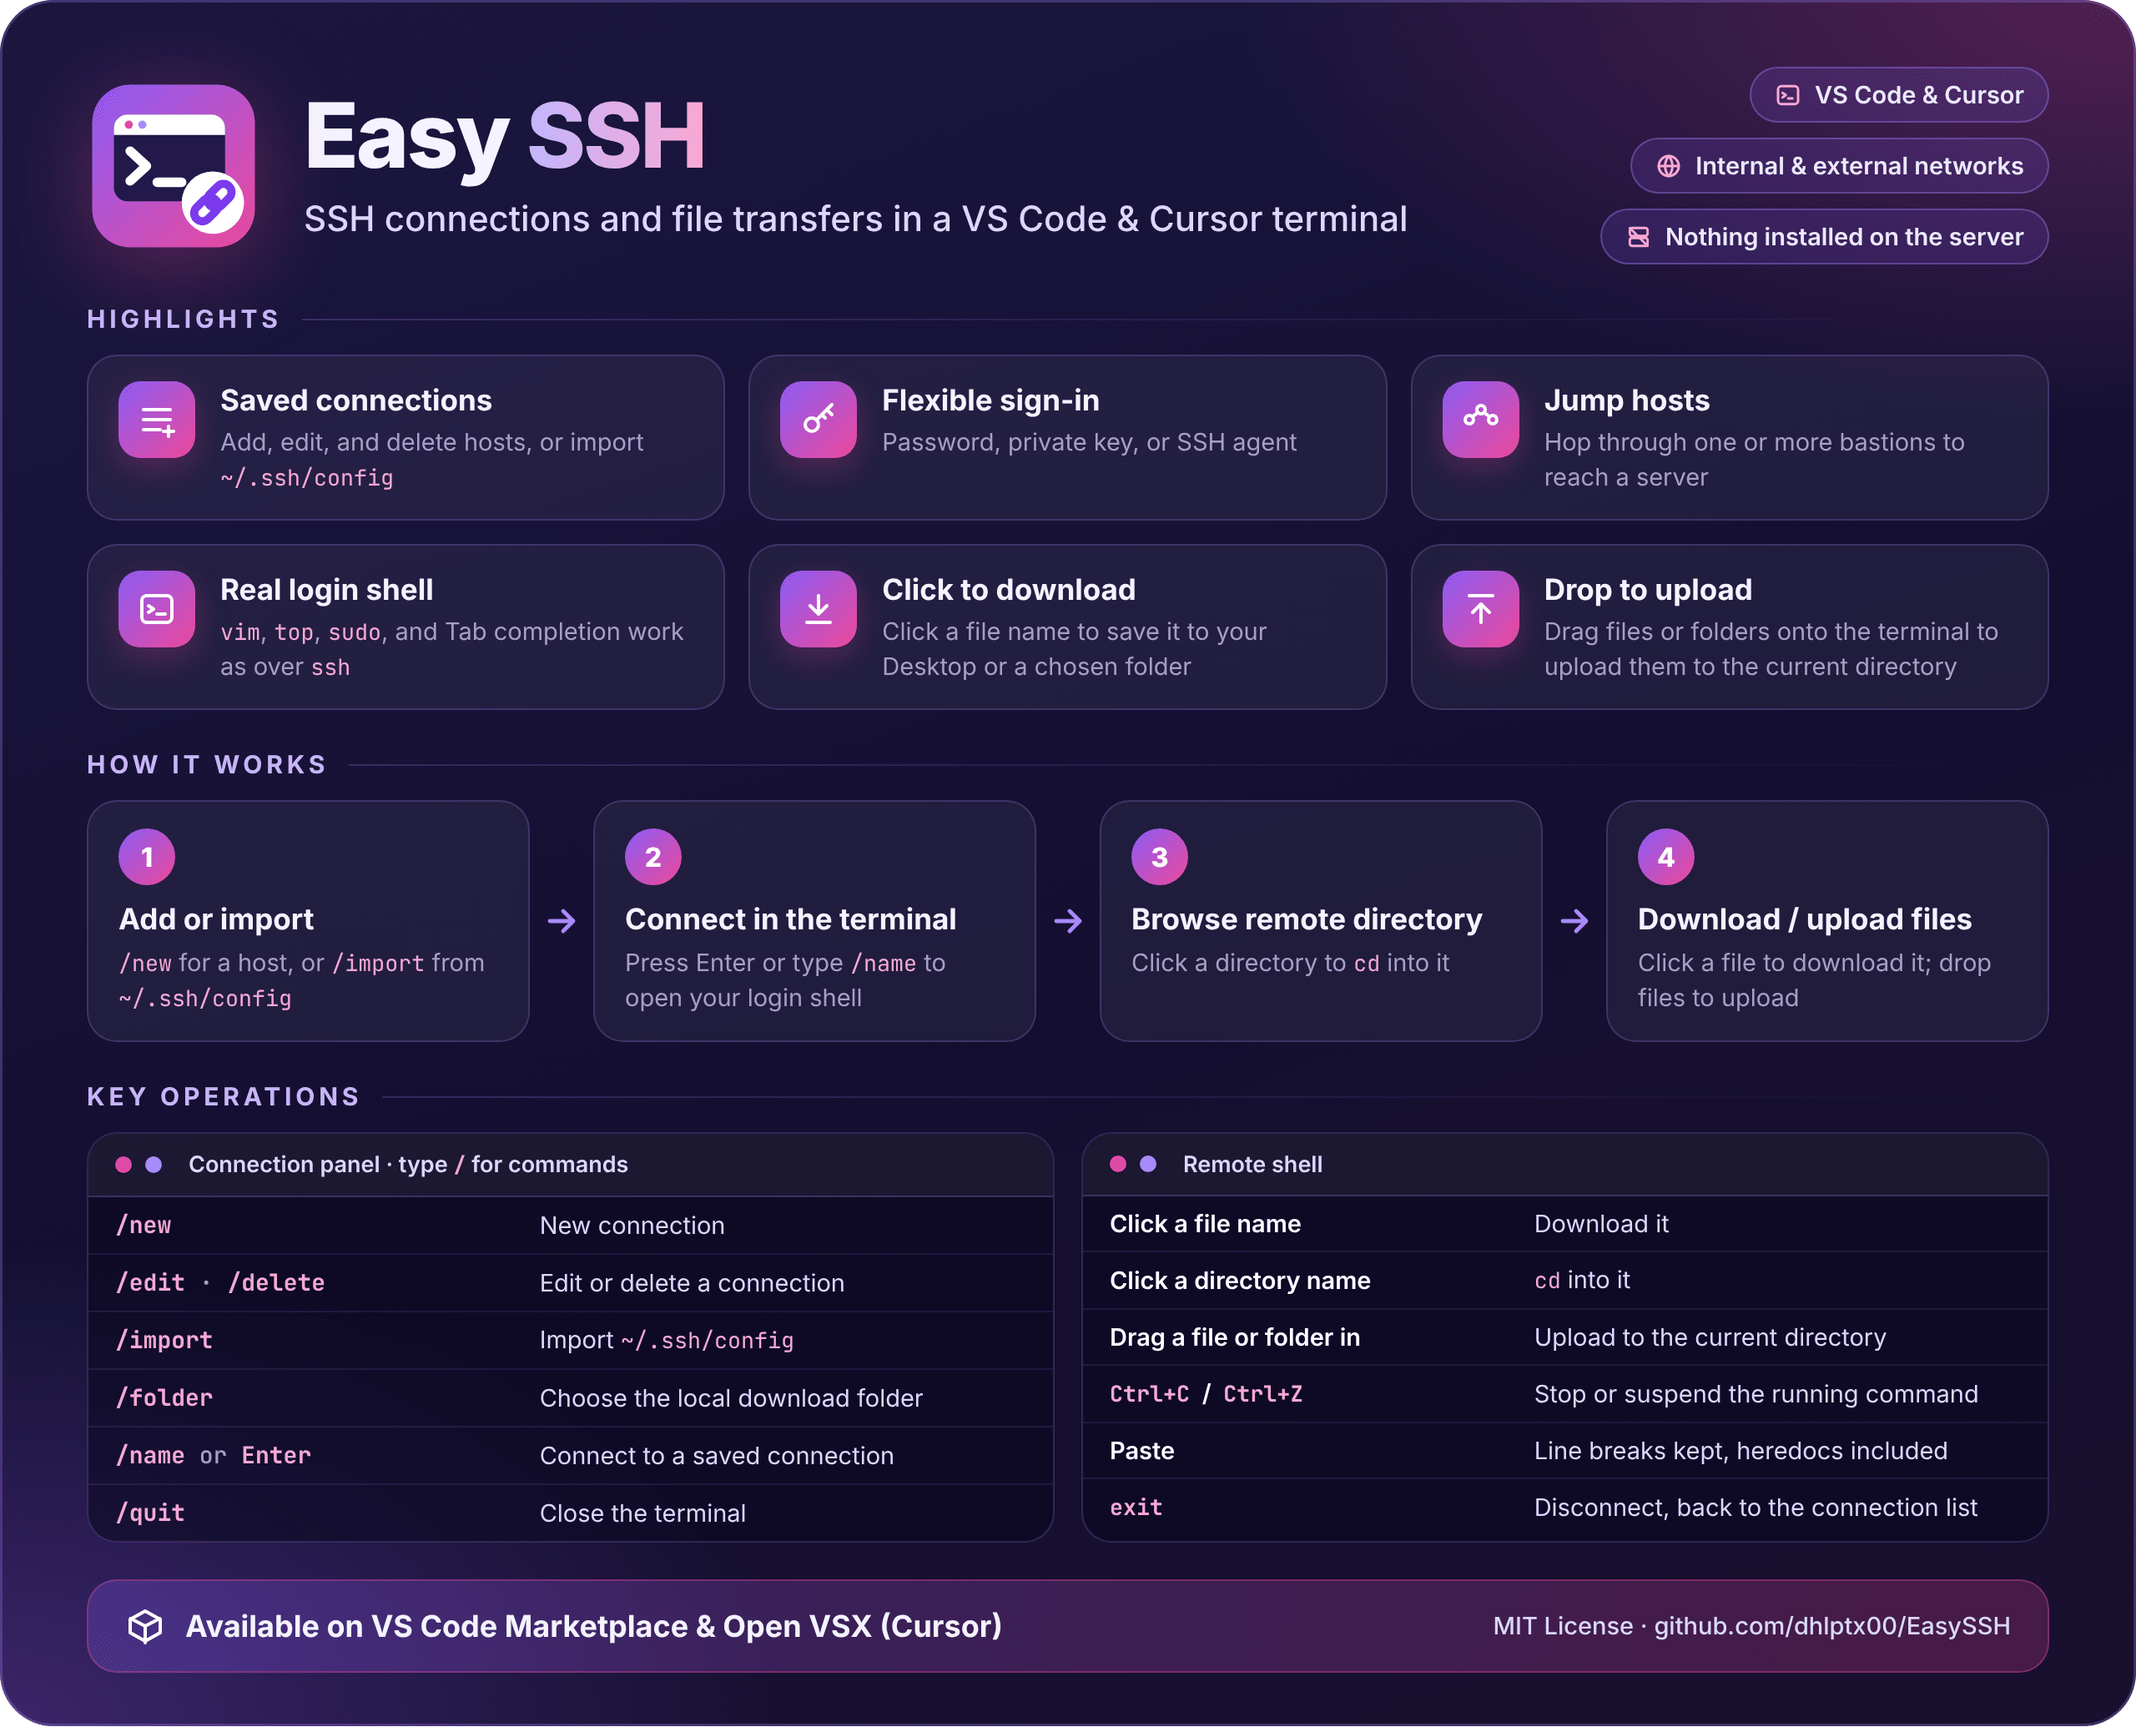
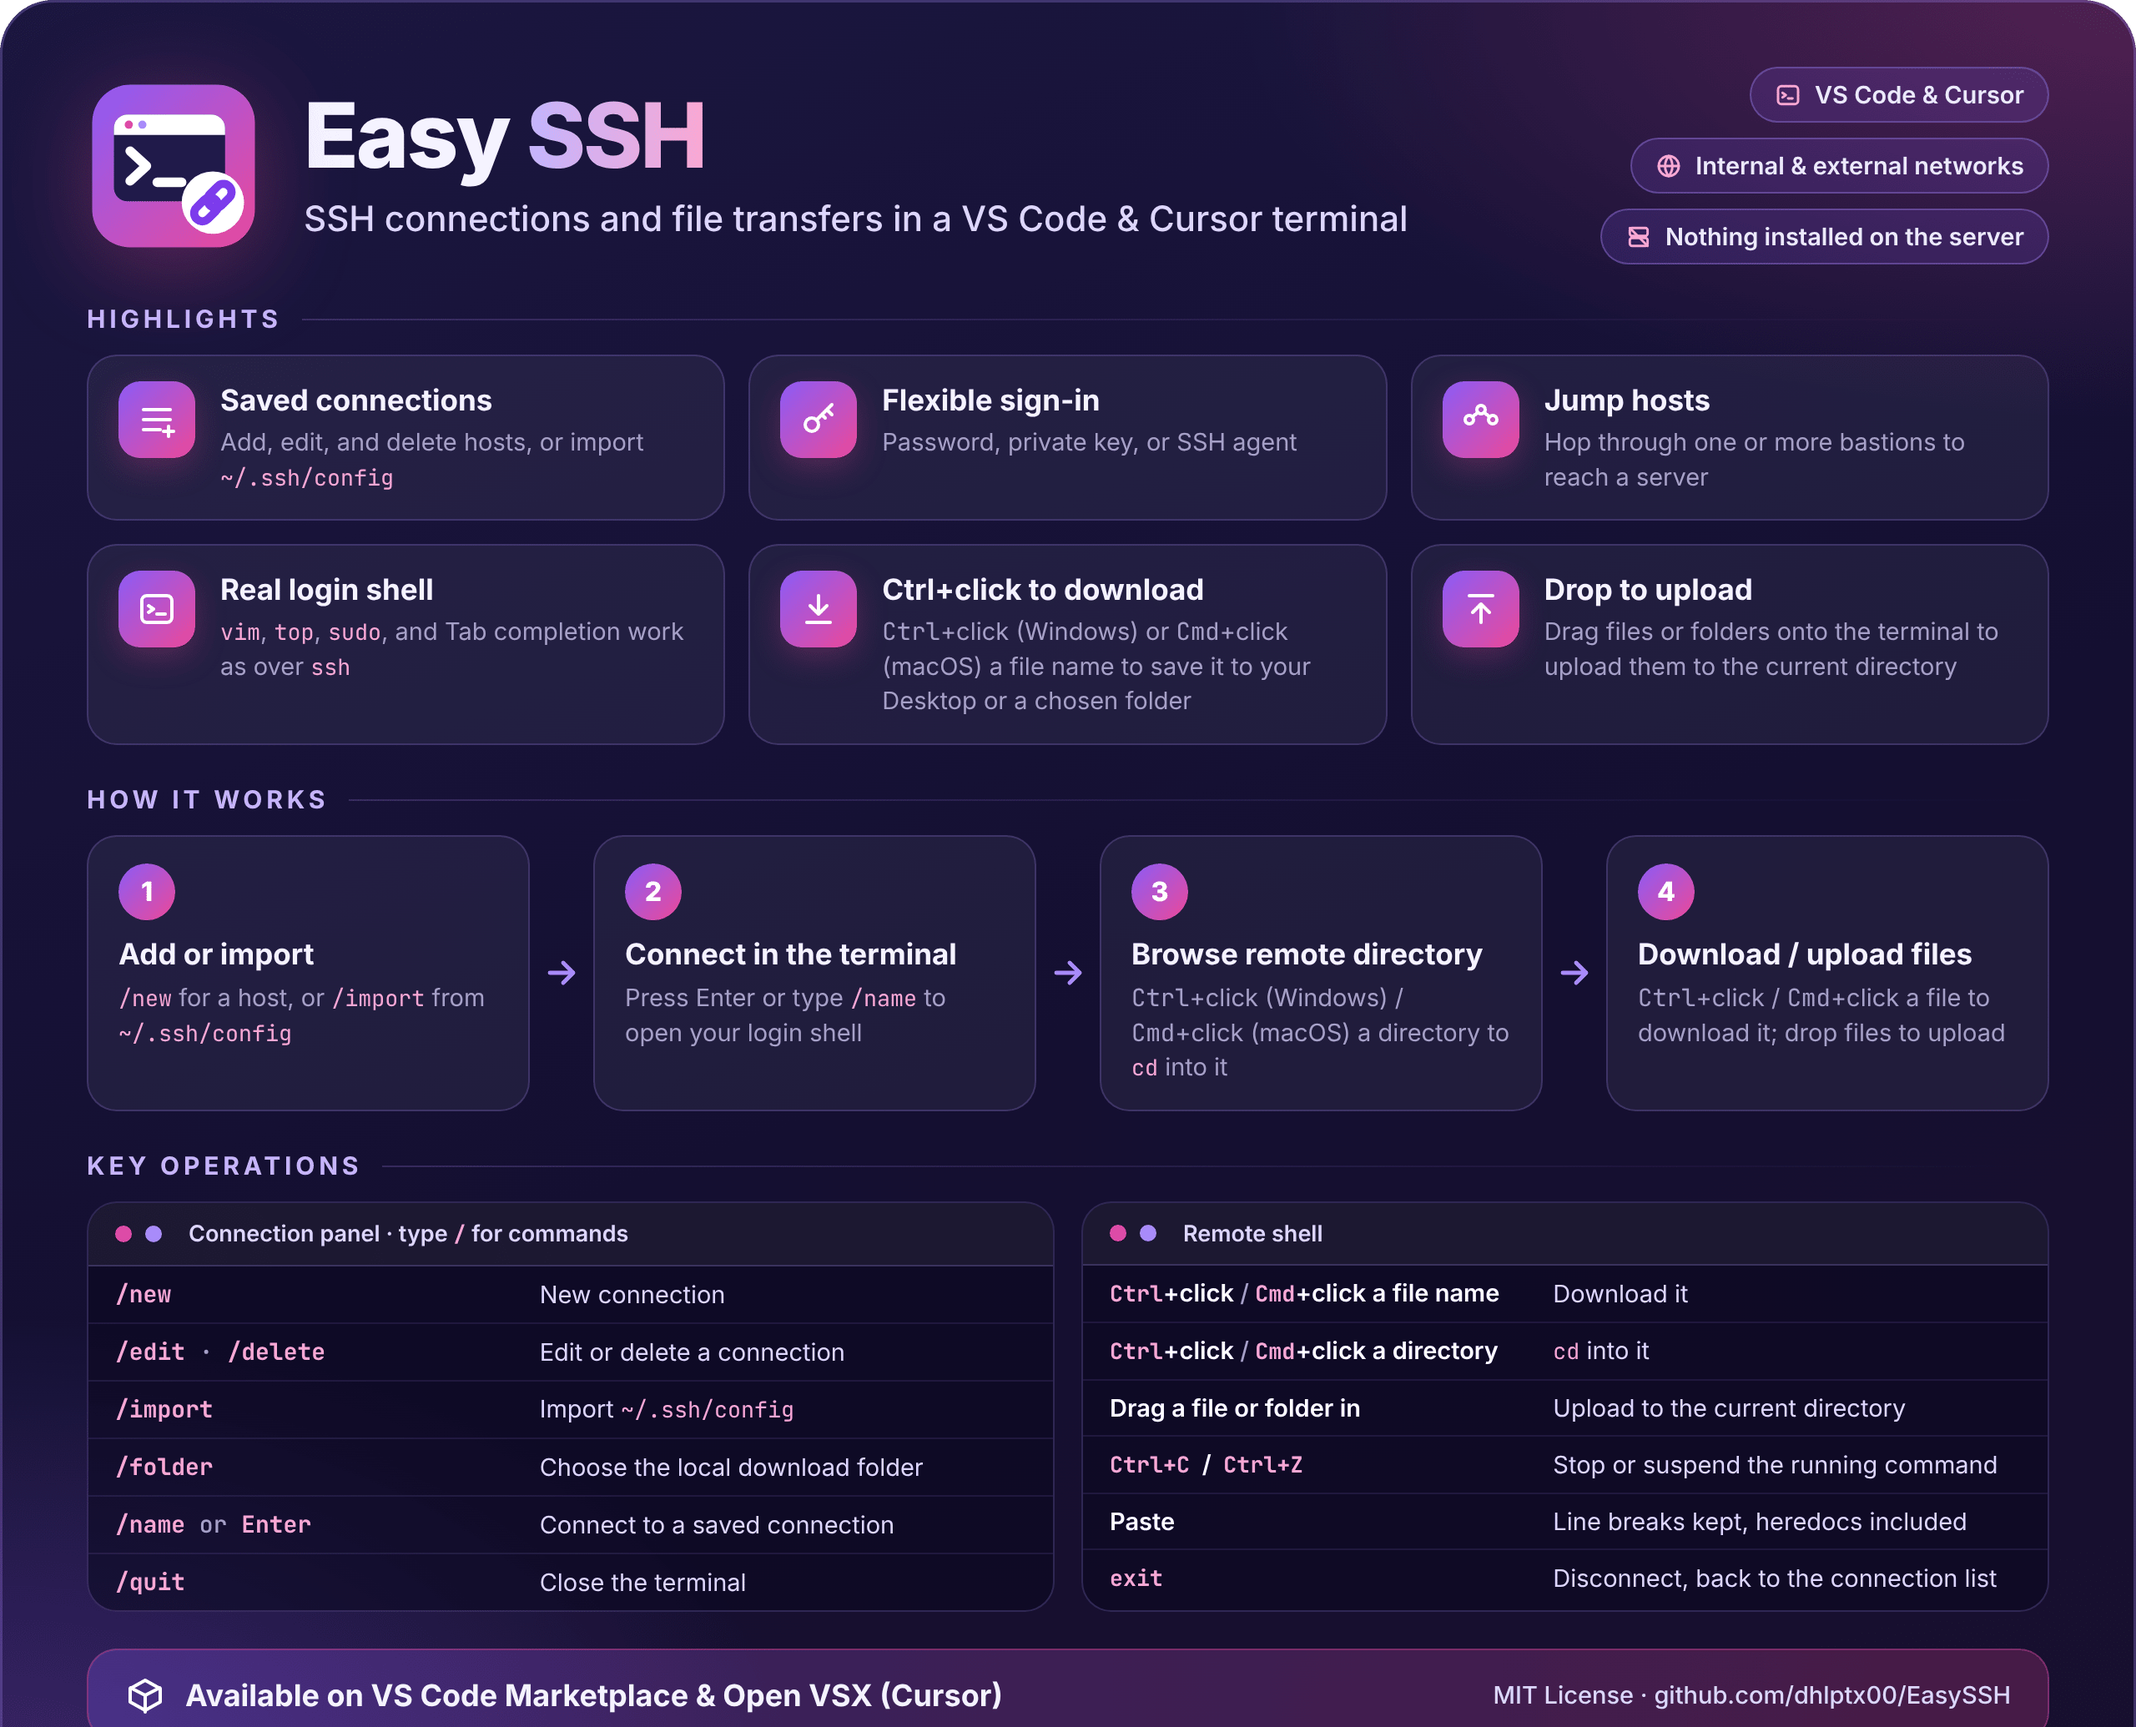
0.1.3: explicit Ctrl/Cmd+click docs, refreshed screenshots and infographic, header shows real version
- README: Ctrl+click on Windows/Linux, Cmd+click on macOS for download and cd;
  updated alt text and captions.
- Infographic: Ctrl+click (Windows) / Cmd+click (macOS) in highlights, steps,
  and the remote shell table.
- Re-captured 01, 02, 07, 08, 09, 12 and the demo GIF with 0.1.3.
- The connection panel header read a hard-coded 0.1.0; it now comes from
  package.json.

diff --git a/src/terminal/render.test.ts b/src/terminal/render.test.ts
@@ -4,6 +4,8 @@ import type { BrowseEntry } from '../types';
 import { nameSpans, render } from './render';
 import { emptyDraft } from './wizard';
 
+const packageVersion: string = (require('../../package.json') as { version: string }).version;
+
 const view = {
   cols: 80,
   rows: 24,
@@ -28,7 +30,7 @@ describe('terminal screen', () => {
     assert.match(text, /Connections/);
     assert.match(text, /Commands/);
     assert.match(text, /Easy SSH/);
-    assert.match(text, /0\.1\.0/);
+    assert.ok(text.includes(`Easy SSH  ${packageVersion}`), 'header shows the package.json version');
     assert.match(text, /╭/);
     assert.ok(frame.cursor);
     assert.match(frame.lines[frame.cursor.row].plain, /> /);

diff --git a/src/terminal/render.ts b/src/terminal/render.ts
@@ -49,7 +49,8 @@ const FG: Record<Tone, string> = {
   border: '64;64;64',
 };
 
-const VERSION = '0.1.0';
+// Read from package.json at build time (esbuild inlines it), so the header never goes stale.
+const VERSION: string = (require('../../package.json') as { version: string }).version;
 const PROMPT_BLOCK = 3;
 const FRAME_GAP = 1;
 

diff --git a/README.md b/README.md
@@ -2,15 +2,15 @@
 
 [![Buy me a coffee](https://img.shields.io/badge/Buy%20me%20a%20coffee-FFDD00?logo=buymeacoffee&logoColor=black)](https://buymeacoffee.com/dhlptx00)
 
-![Easy SSH overview: saved connections, sign-in options, jump hosts, a real login shell, click to download, and drop to upload](media/readme/infographic.png)
+![Easy SSH overview: saved connections, sign-in options, jump hosts, a real login shell, Ctrl+click or Cmd+click to download, and drop to upload](media/readme/infographic.png)
 
 A terminal for SSH connections inside VS Code and Cursor.
 
 Easy SSH talks SSH directly from your computer. It does not install anything on the server, and it does not download a remote editor when you connect. The same terminal works on an internal network and on the public internet.
 
-![Demo: pick a connection, open the remote shell, click a directory to cd into it, and click a file to download it](media/readme/connect-and-download.gif)
+![Demo: pick a connection, open the remote shell, Ctrl+click a directory to cd into it, and Ctrl+click a file to download it](media/readme/connect-and-download.gif)
 
-*Quick demo: connect, Ctrl+click (Cmd+click on macOS) a directory to `cd` into it, Ctrl+click a file to download it.*
+*Quick demo: connect, Ctrl+click a directory to `cd` into it, then Ctrl+click a file to download it. On macOS, use Cmd+click.*
 
 ## What you can do
 
@@ -20,7 +20,8 @@ Easy SSH talks SSH directly from your computer. It does not install anything on 
 - Import hosts from `~/.ssh/config`
 - Open a remote Linux shell in your home directory
 - Run commands, full-screen programs, and `sudo` the same way you would over `ssh`
-- Ctrl+click (Cmd+click on macOS) a file name to download it to your Desktop
+- Download a file to your Desktop: Ctrl+click its name on Windows and Linux, Cmd+click on macOS
+- `cd` into a directory the same way: Ctrl+click on Windows and Linux, Cmd+click on macOS
 - Select and copy terminal text with the mouse, as in any VS Code terminal
 - Drag a file or folder onto the terminal to upload it into the current directory
 - Open another session from the activity-bar icon or **Easy SSH: New Terminal**
@@ -67,21 +68,21 @@ A connection opens your login shell in the home directory, the same kind of shel
 
 *A remote login shell, the same as over `ssh`.*
 
-Ctrl+click (Cmd+click on macOS) a file name to download it to the Desktop. Ctrl+click a directory name to `cd` into it. Hovering a name underlines it and shows what a click does. Drag a file or folder onto the terminal to upload it into the current directory. Progress for those transfers is shown in the status bar. `exit` closes the shell and returns to the connection list.
+To download a file to the Desktop, Ctrl+click its name on Windows and Linux, or Cmd+click it on macOS. To `cd` into a directory, Ctrl+click its name on Windows and Linux, or Cmd+click it on macOS. Hovering a name underlines it and shows what a click does. Drag a file or folder onto the terminal to upload it into the current directory. Progress for those transfers is shown in the status bar. `exit` closes the shell and returns to the connection list.
 
-![Clicking a directory name runs cd into it](media/readme/08-click-directory-to-cd.png)
+![Hovering a directory name shows "cd logs (ctrl + click)"; Ctrl+click runs cd into it](media/readme/08-click-directory-to-cd.png)
 
-*Ctrl+click a directory name to `cd` into it.*
+*Ctrl+click a directory name (Cmd+click on macOS) to `cd` into it.*
 
 Each click of the activity-bar icon opens another terminal, and so does **Easy SSH: New Terminal**. Each one connects on its own. The first terminal is named Easy SSH, and the next are Easy SSH 2, Easy SSH 3, and so on.
 
-Drag with the mouse to select text, then copy it as usual. If you set `editor.multiCursorModifier` to `ctrlCmd`, links open with Alt+click instead, the same as for other VS Code terminal links. To open names with a plain click, turn on **Easy SSH: Plain Click** (`easySsh.plainClick`). In that mode, hold Shift while dragging to select text. On macOS, turn on `terminal.integrated.macOptionClickForcesSelection` and hold Option instead.
+Drag with the mouse to select text, then copy it as usual. If you set `editor.multiCursorModifier` to `ctrlCmd`, links open with Alt+click instead, the same as for other VS Code terminal links. To open names with a plain click instead, turn on **Easy SSH: Plain Click** (`easySsh.plainClick`). In that mode, hold Shift while dragging to select text. On macOS, turn on `terminal.integrated.macOptionClickForcesSelection` and hold Option instead.
 
 | Action | Result |
 | --- | --- |
 | Type, arrows, Tab, Ctrl+R, Ctrl+L | The remote shell handles the keys. Tab finishes a path such as `cd /tm` |
-| Ctrl+click (Cmd+click) a file name | Download it to the Desktop |
-| Ctrl+click (Cmd+click) a directory name | `cd` into it |
+| Ctrl+click a file name (Cmd+click on macOS) | Download it to the Desktop |
+| Ctrl+click a directory name (Cmd+click on macOS) | `cd` into it |
 | Drag with the mouse | Select text |
 | Drag a file or folder here | Upload it into the current directory |
 | Ctrl+C | Stop the running command |
@@ -95,9 +96,9 @@ Passwords and key passphrases are hidden while you type. Press Enter on a saved 
 
 Downloaded files go to your Desktop. On Windows this is the Desktop folder Windows actually uses, including a Desktop redirected to OneDrive or to another drive. The folder in use is written to **Output → Easy SSH** when the extension starts. Type `/folder` on the connection panel, or run **Easy SSH: Set Download Folder**, to choose another folder. If the file name already exists, Easy SSH adds a number, such as `notes (1).txt`.
 
-![Clicking a file name downloads it to the Desktop](media/readme/09-click-file-to-download.png)
+![Hovering a file name shows "Download access.log to the Desktop (ctrl + click)"; the status bar shows where the file was saved](media/readme/09-click-file-to-download.png)
 
-*Ctrl+click a file name to download it. The status bar shows where it was saved.*
+*Ctrl+click a file name (Cmd+click on macOS) to download it. The status bar shows where it was saved.*
 
 To upload, drag a file or a folder from your desktop onto the Easy SSH terminal. It is written into the current Linux directory of the terminal you drop it on. Each terminal has its own connection and directory, so in a split view a drop goes to the pane under the mouse. A folder is uploaded with its contents. Symbolic links inside a folder are skipped. A single drop is limited to 5000 files.
 
@@ -145,7 +146,7 @@ Press F5 in VS Code or Cursor. Both hosts use the same extension API, so there i
 
 ## Compared with SSH FS
 
-SSH FS mounts a remote system as a workspace folder and also provides tasks and remote shells. Easy SSH is the connection list and a login shell: type commands the way you would over `ssh`, Ctrl+click a file name to download it, and drop a file or folder to upload it.
+SSH FS mounts a remote system as a workspace folder and also provides tasks and remote shells. Easy SSH is the connection list and a login shell: type commands the way you would over `ssh`, Ctrl+click (Cmd+click on macOS) a file name to download it, and drop a file or folder to upload it.
 
 ## Support
 

diff --git a/CHANGELOG.md b/CHANGELOG.md
@@ -11,6 +11,7 @@
 - A failure to list the directory after an upload no longer hides the "Uploaded" message.
 - Windows: downloads go to the Desktop Windows actually uses, including OneDrive and redirected Desktops, and the hover text names that folder. File names with characters Windows does not allow, or reserved names such as `CON`, are made safe. Saving retries a rename blocked briefly by antivirus or indexing.
 - Windows error codes such as `EPERM`, `EBUSY`, and `ENOENT` are shown as plain sentences.
+- The connection panel header shows the installed version. It showed 0.1.0 in every release so far.
 
 ## 0.1.2
 
